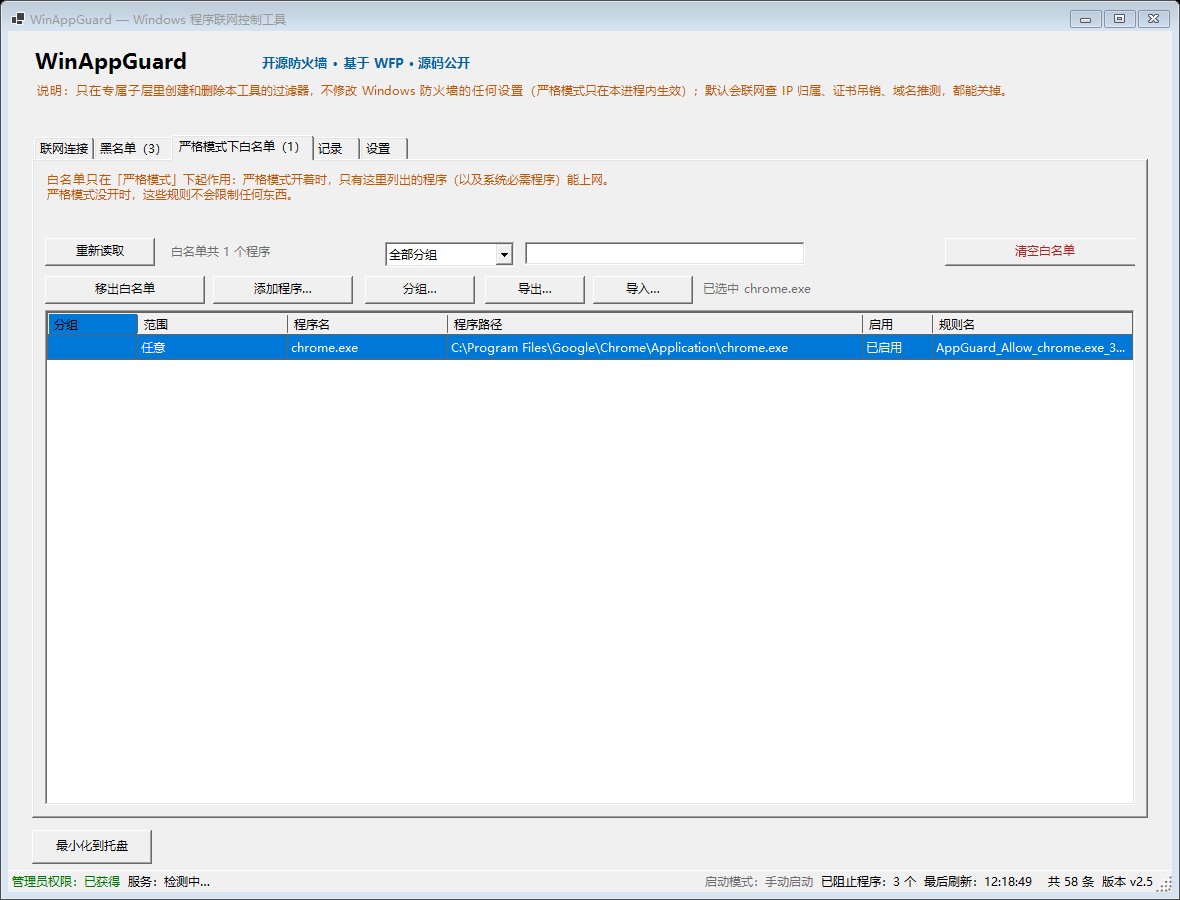
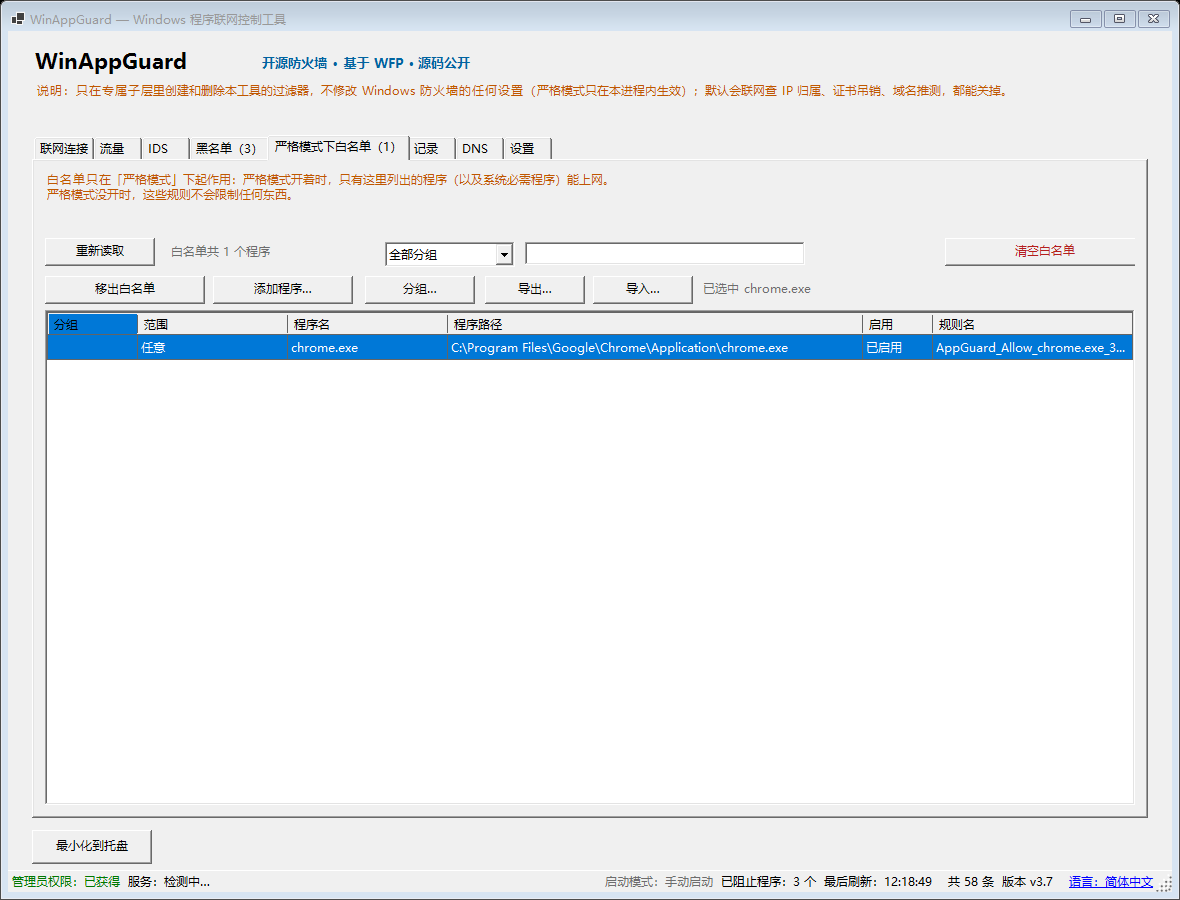
主页：更新 3.7 截图与 README
- 重新生成连接 / 规则 / 设置 / 白名单截图，新增 IDS / 流量 / DNS
- README 删除旧单 exe 下载说明，补 3.7 IDS 与 ETW 架构
- 英文 README 补齐每程序流量 / 流量页 / DNS / 临时锁网
- --render-docs 生成新页面截图，并给连接页样本补流量数字

Changed region(s): [[0.5186, 0.9644, 0.9763, 0.9956], [0.0915, 0.1556, 0.4576, 0.1867]]

diff --git a/tools/SelfCheck/Program.cs b/tools/SelfCheck/Program.cs
@@ -1386,6 +1386,18 @@ internal static class Program
             Application.DoEvents();
             RenderFormTo(form, Path.Combine(outputDir, "01-connections.png"));
 
+            TrySelectTab(form, "_tabIds");
+            Application.DoEvents();
+            RenderFormTo(form, Path.Combine(outputDir, "06-ids.png"));
+
+            TrySelectTab(form, "_tabTraffic");
+            Application.DoEvents();
+            RenderFormTo(form, Path.Combine(outputDir, "07-traffic.png"));
+
+            TrySelectTab(form, "_tabDns");
+            Application.DoEvents();
+            RenderFormTo(form, Path.Combine(outputDir, "08-dns.png"));
+
             TrySelectTab(form, "_tabRules");
             Application.DoEvents();
             RenderFormTo(form, Path.Combine(outputDir, "02-rules.png"));
@@ -1465,6 +1477,21 @@ internal static class Program
                     (ushort)(50000 + i), TcpState.Established, sample.Path);
 
                 item.Signature = new SignatureInfo(sample.State, sample.Signer, $"{sample.Name}：示例签名信息");
+
+                var traffic = sample.Name switch
+                {
+                    "chrome.exe" => (1_208_336L, 18_800_512L),
+                    "steam.exe" => (308_064L, 12_274_688L),
+                    "douyin.exe" => (890_048L, 45_767_104L),
+                    "bdservicehost.exe" => (128_064L, 2_274_688L),
+                    "game.exe" => (20_480L, 0L),
+                    "Code.exe" => (445_728L, 3_874_368L),
+                    "OneDrive.exe" => (1_582_912L, 5_194_304L),
+                    "svchost.exe" => (58_288L, 208_896L),
+                    _ => (5_120L, 0L),
+                };
+
+                item.ApplyTraffic(traffic.Item1, traffic.Item2);
                 scanned.Add(item);
             }
         }
@@ -1588,7 +1615,219 @@ internal static class Program
         {
             hint.Text = "已选中 chrome.exe（共 4 条连接）—— 当前状态：未阻止；白名单：已放行　签名：Google LLC";
         }
+
+        FillDocsTelemetrySampleData(form);
     }
+
+    /// <summary>
+    /// 3.5–3.7 新增页面的样本：流量、DNS、IDS。
+    /// 只灌内存字段，不读服务、不写盘；截图模式本来就把后台服务关掉了。
+    /// </summary>
+    private static void FillDocsTelemetrySampleData(MainForm form)
+    {
+        var now = new DateTime(2026, 10, 26, 12, 18, 49, DateTimeKind.Local);
+        var started = now.AddHours(-2).ToUniversalTime();
+
+        TrySetField(form, "_serviceAvailable", true);
+
+        // ---- 流量页 ----
+        TrySetField(form, "_trafficStartedUtc", (DateTime?)started);
+        TrySetField(form, "_trafficServiceAvailable", true);
+        TrySetField(form, "_trafficRecords", new List<TrafficDto>
+        {
+            new()
+            {
+                Key = @"c:\program files\google\chrome\application\chrome.exe",
+                Path = @"C:\Program Files\Google\Chrome\Application\chrome.exe",
+                Name = "chrome.exe",
+                IsPathKnown = true,
+                BytesOut = 8_412_336,
+                BytesIn = 146_800_512,
+                LastSeenUtc = now.ToUniversalTime(),
+            },
+            new()
+            {
+                Key = @"c:\program files (x86)\steam\steam.exe",
+                Path = @"C:\Program Files (x86)\Steam\steam.exe",
+                Name = "steam.exe",
+                IsPathKnown = true,
+                BytesOut = 1_208_064,
+                BytesIn = 92_274_688,
+                LastSeenUtc = now.AddMinutes(-2).ToUniversalTime(),
+            },
+            new()
+            {
+                Key = @"c:\program files (x86)\bytedance\douyin\douyin.exe",
+                Path = @"C:\Program Files (x86)\ByteDance\douyin\douyin.exe",
+                Name = "douyin.exe",
+                IsPathKnown = true,
+                BytesOut = 2_690_048,
+                BytesIn = 318_767_104,
+                LastSeenUtc = now.AddMinutes(-4).ToUniversalTime(),
+            },
+            new()
+            {
+                Key = @"c:\users\dev\appdata\local\programs\microsoft vs code\code.exe",
+                Path = @"C:\Users\dev\AppData\Local\Programs\Microsoft VS Code\Code.exe",
+                Name = "Code.exe",
+                IsPathKnown = true,
+                BytesOut = 3_145_728,
+                BytesIn = 18_874_368,
+                LastSeenUtc = now.AddMinutes(-6).ToUniversalTime(),
+            },
+            new()
+            {
+                Key = @"c:\program files\microsoft onedrive\onedrive.exe",
+                Path = @"C:\Program Files\Microsoft OneDrive\OneDrive.exe",
+                Name = "OneDrive.exe",
+                IsPathKnown = true,
+                BytesOut = 12_582_912,
+                BytesIn = 4_194_304,
+                LastSeenUtc = now.AddMinutes(-8).ToUniversalTime(),
+            },
+            new()
+            {
+                Key = "pid:808",
+                Path = null,
+                Name = "PID 808",
+                IsPathKnown = false,
+                BytesOut = 524_288,
+                BytesIn = 96_256,
+                LastSeenUtc = now.AddMinutes(-11).ToUniversalTime(),
+            },
+        });
+
+        InvokePrivate(form, "RebuildTrafficView", null);
+
+        // ---- DNS 页 ----
+        TrySetField(form, "_dnsCollecting", true);
+        TrySetField(form, "_dnsSignature", null!);
+        TrySetField(form, "_dnsRecords", new List<DnsDto>
+        {
+            MakeDocsDns(now.AddSeconds(-8), 3000, "chrome.exe", @"C:\Program Files\Google\Chrome\Application\chrome.exe",
+                "www.google.com", "OK"),
+            MakeDocsDns(now.AddSeconds(-12), 3000, "chrome.exe", @"C:\Program Files\Google\Chrome\Application\chrome.exe",
+                "fonts.gstatic.com", "OK"),
+            MakeDocsDns(now.AddSeconds(-19), 3001, "steam.exe", @"C:\Program Files (x86)\Steam\steam.exe",
+                "api.steampowered.com", "OK"),
+            MakeDocsDns(now.AddSeconds(-25), 3001, "steam.exe", @"C:\Program Files (x86)\Steam\steam.exe",
+                "steamcommunity.com", "OK"),
+            MakeDocsDns(now.AddSeconds(-33), 3002, "douyin.exe", @"C:\Program Files (x86)\ByteDance\douyin\douyin.exe",
+                "api.amemv.com", "OK"),
+            MakeDocsDns(now.AddSeconds(-41), 3003, "Code.exe", @"C:\Users\dev\AppData\Local\Programs\Microsoft VS Code\Code.exe",
+                "update.code.visualstudio.com", "OK"),
+            MakeDocsDns(now.AddSeconds(-55), 3004, "OneDrive.exe", @"C:\Program Files\Microsoft OneDrive\OneDrive.exe",
+                "login.live.com", "OK"),
+            MakeDocsDns(now.AddSeconds(-70), 3005, "tool.exe", @"C:\Users\dev\Downloads\tool.exe",
+                "telemetry.example.invalid", "NXDOMAIN"),
+        });
+
+        InvokePrivate(form, "RebindDnsGrid", null);
+
+        // ---- IDS 页 ----
+        TrySetField(form, "_idsServiceAvailable", true);
+        TrySetField(form, "_idsSignature", null!);
+        TrySetField(form, "_idsSettings", new IdsSettingsDto
+        {
+            Enabled = true,
+            Sensitivity = "standard",
+            RetentionDays = 30,
+        });
+        TrySetField(form, "_idsStatus", new IdsStatusDto
+        {
+            Enabled = true,
+            Collecting = true,
+            Sensitivity = "standard",
+            FlowCount = 137,
+            EventsSeen = 4_821,
+            AlertsNew = 3,
+            AlertsTotal = 4,
+            LastAlertUtc = now.AddMinutes(-3).ToUniversalTime(),
+            SuppressionCount = 1,
+        });
+        TrySetField(form, "_idsSuppressions", new List<IdsSuppressionDto>
+        {
+            new()
+            {
+                Id = "suppress-demo",
+                RuleId = "dns",
+                ProcessName = "browser.exe",
+                Target = "ads.example.com",
+                UntilUtc = now.AddHours(20).ToUniversalTime(),
+            },
+        });
+        TrySetField(form, "_idsAlerts", new List<IdsAlertDto>
+        {
+            new()
+            {
+                Id = "demo-1",
+                TimeUtc = now.AddMinutes(-3).ToUniversalTime(),
+                Severity = "high",
+                RuleId = "lateral",
+                RuleName = "lateral",
+                Pid = 4212,
+                ProcessName = "game.exe",
+                ProcessPath = @"C:\Program Files\SomeGame\game.exe",
+                Target = "private-admin-ports",
+                Evidence = "privateHosts=4; ports=445,3389; window=600s",
+                Status = "new",
+            },
+            new()
+            {
+                Id = "demo-2",
+                TimeUtc = now.AddMinutes(-9).ToUniversalTime(),
+                Severity = "medium",
+                RuleId = "scan",
+                RuleName = "scan",
+                Pid = 808,
+                ProcessName = "PID 808",
+                Target = "host:203.0.113.9",
+                Evidence = "sameHost=203.0.113.9; ports=24; window=60s",
+                Status = "new",
+            },
+            new()
+            {
+                Id = "demo-3",
+                TimeUtc = now.AddMinutes(-16).ToUniversalTime(),
+                Severity = "medium",
+                RuleId = "dns",
+                RuleName = "dns",
+                Pid = 5120,
+                ProcessName = "tool.exe",
+                ProcessPath = @"C:\Users\dev\Downloads\tool.exe",
+                Target = "example.invalid",
+                Evidence = "parent=example.invalid; unique=24; long=11; nxdomain=18/24",
+                Status = "new",
+            },
+            new()
+            {
+                Id = "demo-4",
+                TimeUtc = now.AddMinutes(-31).ToUniversalTime(),
+                Severity = "medium",
+                RuleId = "beaconing",
+                RuleName = "beaconing",
+                Pid = 6120,
+                ProcessName = "OneDrive.exe",
+                ProcessPath = @"C:\Program Files\Microsoft OneDrive\OneDrive.exe",
+                Target = "13.107.42.12:443",
+                Evidence = "connections=18; mean=60.0s; jitter=0.08; avg=412B",
+                Status = "ack",
+            },
+        });
+
+        InvokePrivate(form, "RebuildIdsView", null);
+    }
+
+    private static DnsDto MakeDocsDns(
+        DateTime time, int pid, string process, string path, string query, string status) => new()
+    {
+        TimeUtc = time.ToUniversalTime(),
+        Pid = pid,
+        ProcessName = process,
+        ProcessPath = path,
+        QueryName = query,
+        Status = status,
+    };
 
     /// <summary>
     /// 灌白名单样本（三种放行状态各来一个）。

diff --git a/README.en.md b/README.en.md
@@ -56,12 +56,20 @@ and finish with *"blocked."*
   Closing the UI leaves protection on; stopping, crashing or force-killing the service
   **removes the restriction immediately**. A built-in list of required system programs
   (mostly `svchost.exe`) stays allowed so DNS, time sync and Windows Update keep working.
+- **Per-program traffic** — the Connections page shows **upload / download / total** for each
+  program since the service started (ETW, TCP + UDP, approximate; short connections may be missed).
+- **Traffic page** — aggregate every program's upload/download/total since the service started,
+  sort by time or traffic, search, see the measurement start time and totals, or clear it with one UAC.
+- **DNS page** — the latest queried **domains, PID, program and result**. Only names seen by the
+  Windows DNS client are recorded; **no URLs or response contents**; DoH/DoT may be invisible.
 - **Dedicated rules page** — manage every rule the tool has created, even if the program
   is no longer running.
 - **Flow IDS (detection only, never blocking)** — the *IDS* page is enabled by default and uses
   connection metadata plus DNS records to flag periodic beaconing, port/host scans, lateral
   movement and DNS anomalies. Alerts stay local for 30 days and can be acknowledged, suppressed
   or cleared. No DPI, no HTTPS decryption, no packet capture, and no automatic blocking.
+- **Timed lockdown** — 30 minutes / 2 hours from the strict-mode panel or tray menu. It lifts
+  itself when time is up, and is also revoked if the service stops or crashes.
 - **Records page** — who connected to what and whether it was blocked: type (connection /
   blocked), program, remote endpoint, **guessed domain**, and **which rule matched**. Search,
   filter to blocked only, or clear everything. Records are local only, enabled by default, and
@@ -183,15 +191,21 @@ WinAppGuard.exe --list-blocked --lang en   # English for this run (default: foll
 
 ## Screenshots
 
-| Rules | Settings |
+| IDS (detection only) | Traffic |
 |---|---|
-| ![Blocklist tab](docs/screenshots/02-rules.png) | ![Settings tab](docs/screenshots/03-settings.png) |
-| ![Strict-mode whitelist](docs/screenshots/05-whitelist.png) | |
+| ![IDS tab](docs/screenshots/06-ids.png) | ![Traffic tab](docs/screenshots/07-traffic.png) |
+| **DNS** | **Blocklist** |
+| ![DNS tab](docs/screenshots/08-dns.png) | ![Blocklist tab](docs/screenshots/02-rules.png) |
+| **Strict-mode whitelist** | **Settings** |
+| ![Strict-mode whitelist](docs/screenshots/05-whitelist.png) | ![Settings tab](docs/screenshots/03-settings.png) |
 
 ![Block confirmation](docs/screenshots/04-confirm-block.png)
 
 Every state-changing action goes through a confirmation dialog that names the exact program,
 its full path, the scope of the change, and the rule that is about to be created or deleted.
+
+> The IDS page only raises alerts and never blocks automatically; acknowledging, suppressing,
+> clearing and changing its settings each require one UAC prompt.
 
 ## Download (only two files from Releases)
 
@@ -242,6 +256,9 @@ registers the service (SYSTEM, automatic start), and creates a desktop shortcut.
 | IP ownership | Team Cymru WHOIS over plain TCP to `whois.cymru.com:43` — the only endpoint this app actively connects to (DNS lookups and revocation checks are separate, see above); batched and cached in memory; on by default, switchable off |
 | Strict mode | A **dynamic WFP session inside the protection service**: whitelist permit (high weight) + block all (low weight). Stopping or crashing the service revokes it; it changes no system setting |
 | Timed blocks | The expiry is stored **in the filter's own description field** (`AppGuard\|1\|Block\|C:\path\a.exe\|自动解除=…`), so it survives restarts. The service's 30-second timer removes expired filters and shows a tray notification |
+| Traffic accounting | ETW `Microsoft-Windows-Kernel-Network` TCP/UDP send/receive events, accumulated per PID; no packet capture and no payload inspection |
+| DNS records | ETW `Microsoft-Windows-DNS-Client`; only the domain, PID and result code, with the latest 2000 entries kept in memory |
+| Flow IDS | Reuses the two ETW sessions above and feeds connection tuples / counts / bytes / domains into an in-memory rule engine; raises alerts only, never inline blocking |
 | Service / protected mode | `WinAppGuardSvc` runs as SYSTEM and is the only process that writes WFP. The UI talks to it over the `WinAppGuard.Control.v2` pipe; every request is signed with the owner's ECDSA P-256 key (nonce + request bytes), and the service only stores the public key |
 | Records | WFP net events for blocked connections (with filter ID → rule name); 3-second polling + DNS-cache snapshots for normal connections; JSONL files, 8 MB segments, 7-day retention by default |
 
@@ -432,6 +449,9 @@ Most project documentation is in Chinese.
 | [`docs/发布手册.md`](docs/发布手册.md) | Build → verify → release workflow |
 | [`docs/服务化设计.md`](docs/服务化设计.md) | 3.0 protection service + UI client design (implemented) |
 | [`docs/受保护模式设计.md`](docs/受保护模式设计.md) | 3.1 single owner, ECDSA/DPAPI, protocol v2, ACLs and lifecycle |
+| [`docs/3.6-流量记录设计.md`](docs/3.6-流量记录设计.md) | 3.6 traffic page aggregation, sorting and clearing |
+| [`docs/3.7-用户态FlowIDS设计.md`](docs/3.7-用户态FlowIDS设计.md) | 3.7 user-mode Flow IDS: rules, thresholds, storage and limits |
+| [`docs/3.7-VM验收.md`](docs/3.7-VM验收.md) | 3.7 automated acceptance and VM measurements |
 
 ## Contributing
 

diff --git a/docs/开发记录与交接.md b/docs/开发记录与交接.md
@@ -2216,3 +2216,17 @@ VM（2026-10-23，全部通过）：
   - 24 小时 soak（CPU / 内存 / flow / 告警量）；
   - 产品形态下正常使用 15–30 分钟的误报 / CPU / 内存 / flow 观察（目前只有 POC 的 10 分钟基线）。
 - 版本已升到 3.7；**尚未** push / 打 tag / 发布。
+## 47. 主页截图与 README 刷新（2026-10-26）
+
+- 旧截图还是 v2.5（只有 6 个页签），与 3.7 的 8 个页签、流量列、IDS 页不符。
+- 扩展 `--render-docs`：生成 `06-ids.png`、`07-traffic.png`、`08-dns.png`，
+  并给连接页样本补上上传 / 下载 / 总计，避免截图里整列都是「—」。
+- 重新生成 `01-connections.png`、`02-rules.png`、`03-settings.png`、`05-whitelist.png`；
+  `04-confirm-block.png` 未变。
+- 中文 README：
+  - 删掉过时的「下载 WinAppGuard.exe / 约 49 MB / 单文件」段落；
+  - 补 3.7 Flow IDS 说明、8 个页签的截图、流量 / DNS / IDS 的实现方式；
+  - 修复重复的「环境要求」；补 Release 徽章和 3.6 / 3.7 文档链接。
+- 英文 README：补齐缺失的每程序流量、流量页、DNS 页、临时锁网条目，
+  同步截图和 How it works 表格。
+- `--render-docs` 仍不联网、不碰防火墙、不写用户设置；样本数据只灌内存。
